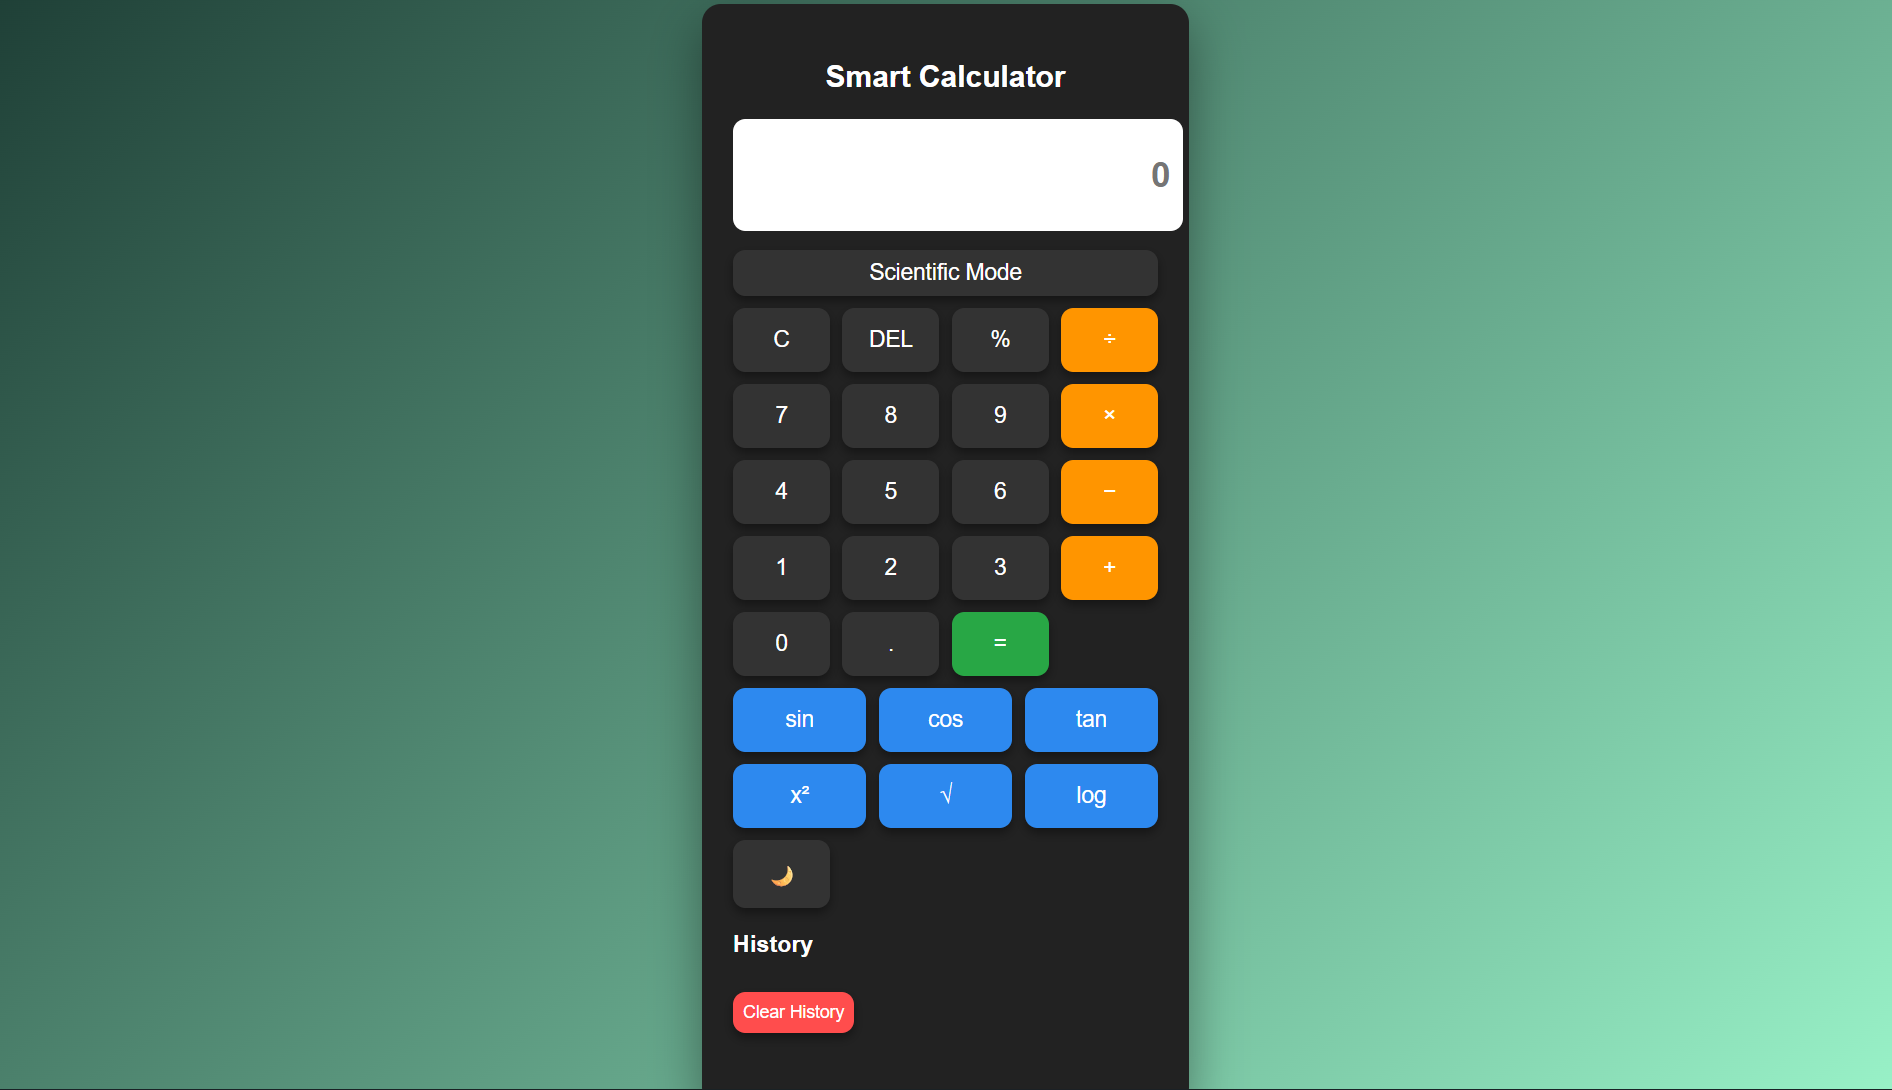
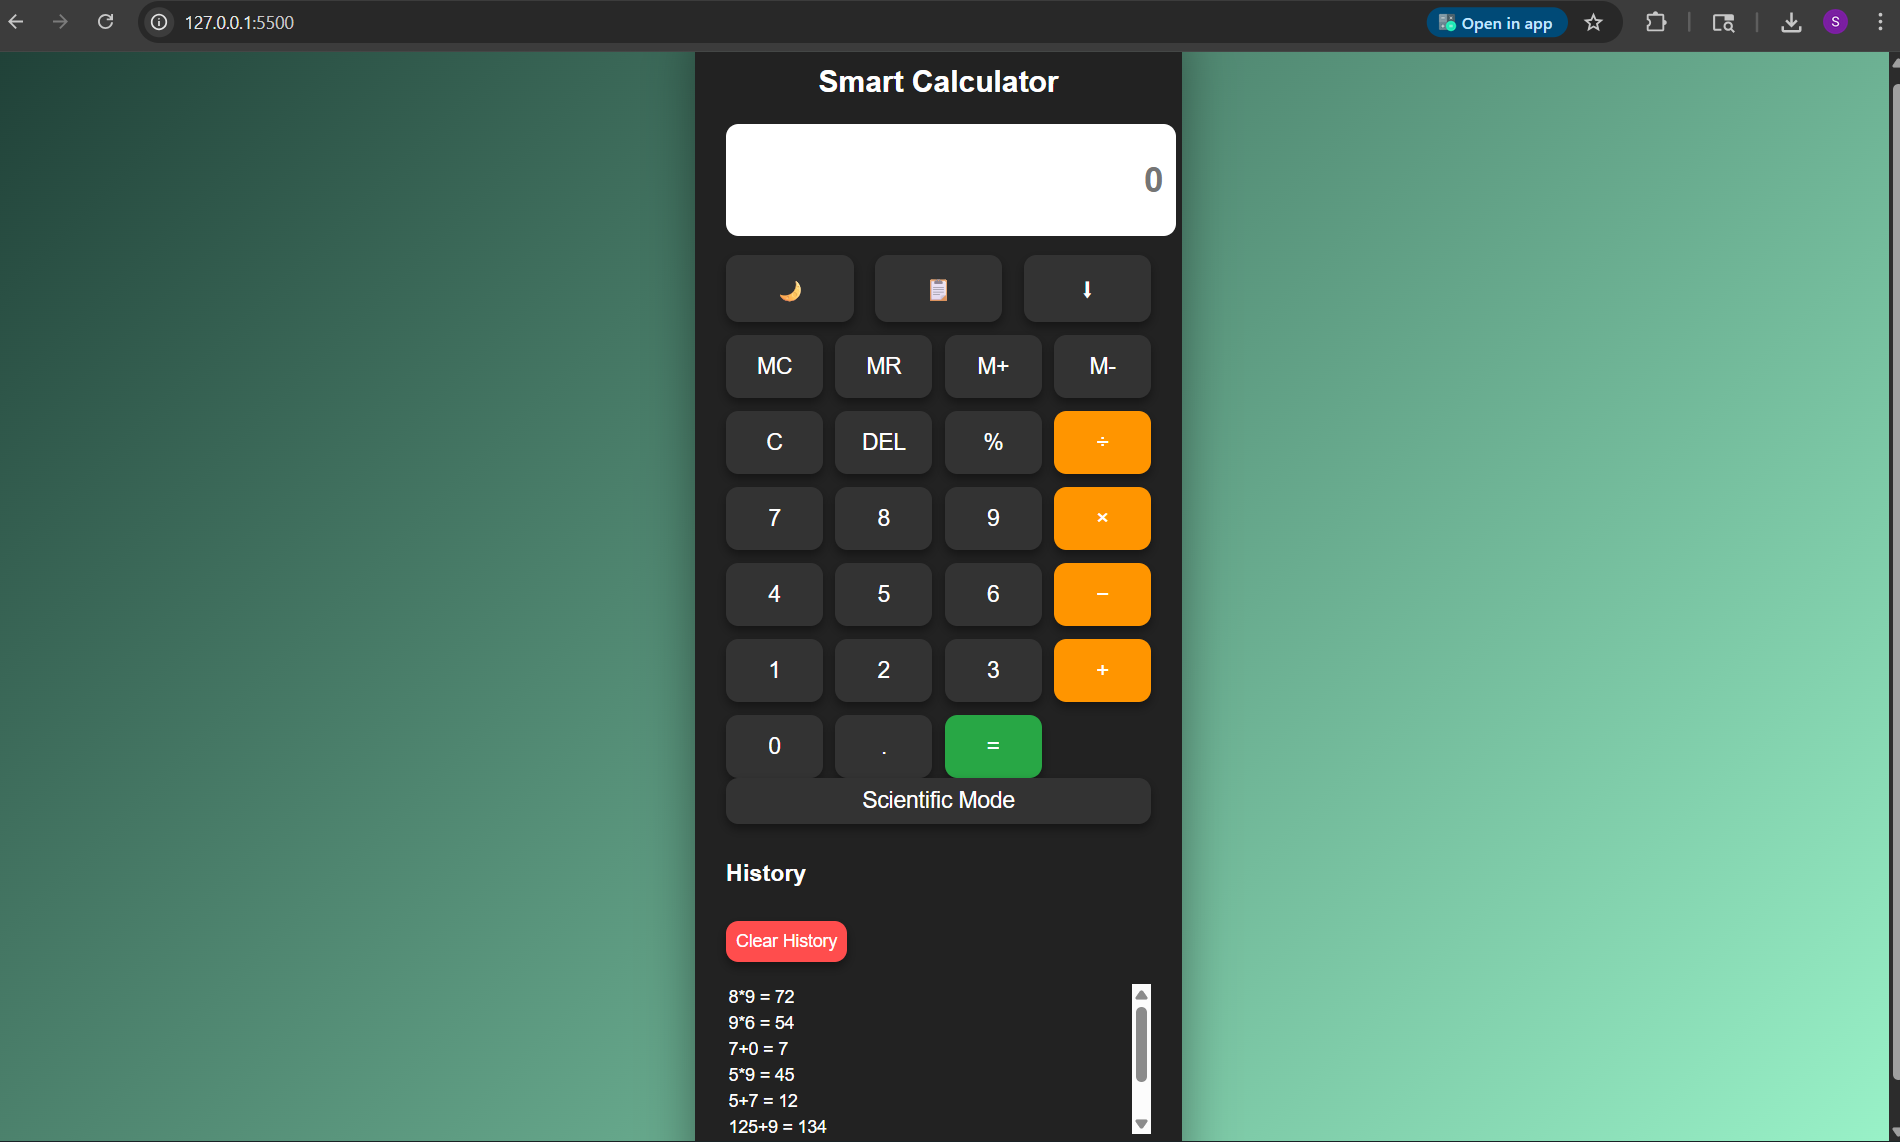
Added PWA features and fixed project structure

Changed region(s): [[0.0, 0.0, 1.0, 1.0], [0.4054, 0.4991, 0.4366, 0.5303], [0.4054, 0.4367, 0.4366, 0.4679]]

diff --git a/script.js b/script.js
@@ -267,3 +267,47 @@ link.download = "calculator-history.txt";
 link.click();
 
 }
+if("serviceWorker" in navigator){
+
+navigator.serviceWorker.register("service-worker.js")
+
+.then(()=>console.log("Service Worker Registered"));
+
+}
+let deferredPrompt;
+const installBtn = document.getElementById("installBtn");
+
+/* Detect install availability */
+window.addEventListener("beforeinstallprompt", (e) => {
+
+e.preventDefault(); // stop automatic popup
+
+deferredPrompt = e;
+
+/* Show install button */
+installBtn.style.display = "block";
+
+});
+
+/* Button click → install */
+installBtn.addEventListener("click", async () => {
+
+if(deferredPrompt){
+
+deferredPrompt.prompt();
+
+const result = await deferredPrompt.userChoice;
+
+if(result.outcome === "accepted"){
+console.log("User installed app");
+}else{
+console.log("User cancelled install");
+}
+
+deferredPrompt = null;
+
+installBtn.style.display = "none";
+
+}
+
+});

diff --git a/service-worker.js b/service-worker.js
@@ -1,0 +1,36 @@
+const CACHE_NAME = "calculator-cache";
+
+const urlsToCache = [
+"/",
+"index.html",
+"style.css",
+"script.js"
+];
+
+self.addEventListener("install", event => {
+
+event.waitUntil(
+
+caches.open(CACHE_NAME)
+.then(cache => {
+return cache.addAll(urlsToCache);
+})
+
+);
+
+});
+
+self.addEventListener("fetch", event => {
+
+event.respondWith(
+
+caches.match(event.request)
+.then(response => {
+
+return response || fetch(event.request);
+
+})
+
+);
+
+});

diff --git a/index.html b/index.html
@@ -5,6 +5,7 @@
 <meta charset="UTF-8">
 <title>Smart Calculator Pro</title>
 <link rel="stylesheet" href="style.css">
+<link rel="manifest" href="manifest.json">
 </head>
 
 <body>
@@ -15,6 +16,7 @@
 
 <!-- Display -->
 <input type="text" id="display" placeholder="0" readonly>
+<button id="installBtn" style="display:none;">📲 Install App</button>
 
 <!-- Top Controls -->
 <div class="top-controls">
